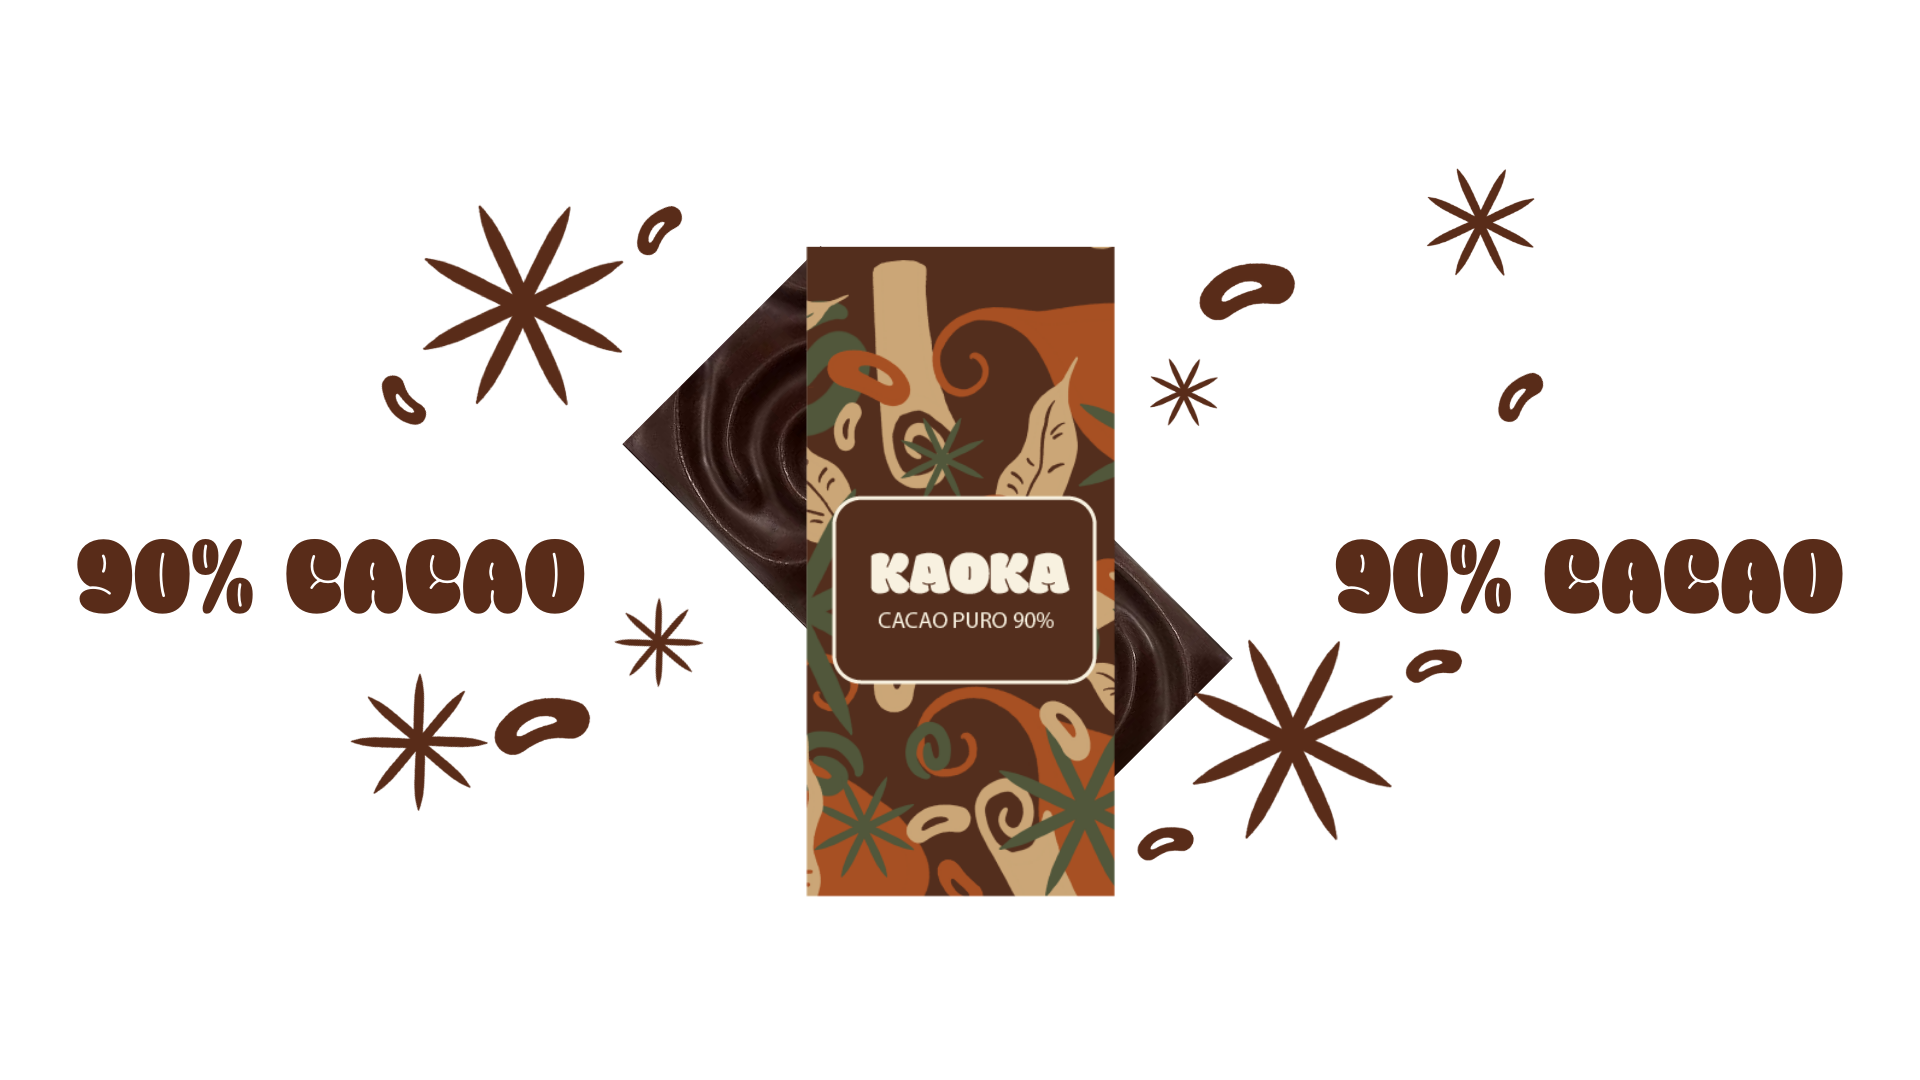
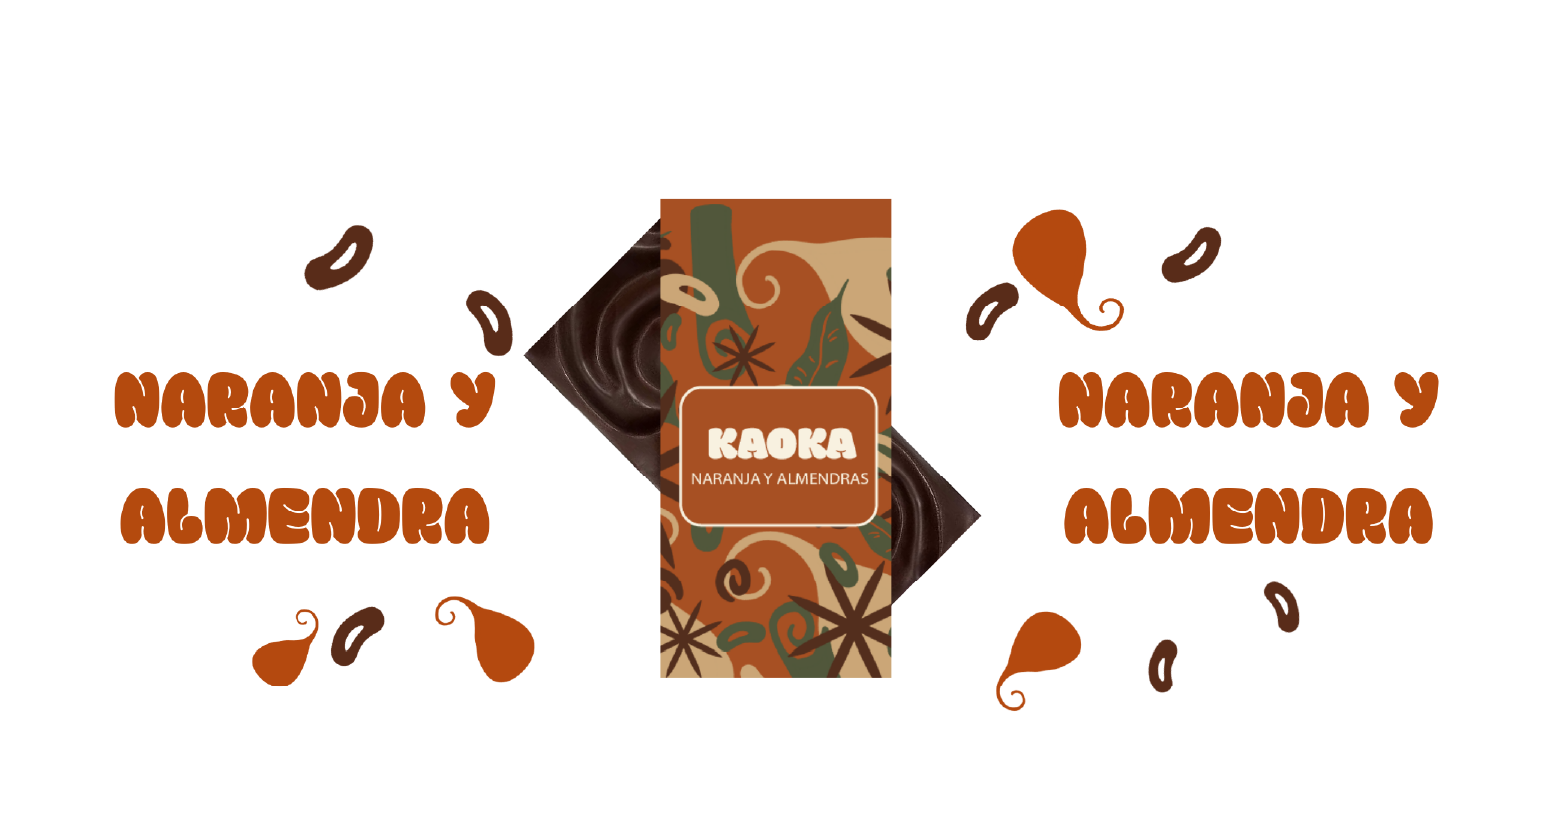
Cambio de imagenes

diff --git a/src/data/works.ts b/src/data/works.ts
@@ -11,7 +11,7 @@ export const works = [
       "/imagenes/trabajos/pagina2_alicia.png",
       "/imagenes/trabajos/pagina3_alicia.png",
       "/imagenes/trabajos/pagina4_alicia.png",
-    ], image: "/imagenes/trabajos/portada_alicia.png", description: "Desarrollar un conjunto de piezas para un libro ilustrado a partir de una obra literaria narrativa seleccionada, atendiendo al público lector y a las convenciones editoriales. La propuesta integrará una base pictórica manual (acrílico o gouache) y un acabado digital para maquetación y retoques." },
+    ], image: "/imagenes/trabajos/pagina1_alicia.png", description: "Desarrollar un conjunto de piezas para un libro ilustrado a partir de una obra literaria narrativa seleccionada, atendiendo al público lector y a las convenciones editoriales. La propuesta integrará una base pictórica manual (acrílico o gouache) y un acabado digital para maquetación y retoques." },
   
   { id: 2, section: "ilustracion", title: "36 Days of Type", images: [
       "/imagenes/trabajos/letras_1.png",
@@ -32,14 +32,6 @@ export const works = [
       "/imagenes/trabajos/kaoka_10.png",
       "/imagenes/trabajos/kaoka_11.png",
       "/imagenes/trabajos/kaoka_12.png",
-      "/imagenes/trabajos/kaoka_13.png",
-      "/imagenes/trabajos/kaoka_14.png",
-      "/imagenes/trabajos/kaoka_15.png",
-      "/imagenes/trabajos/kaoka_16.png",
-      "/imagenes/trabajos/kaoka_17.png",
-      "/imagenes/trabajos/kaoka_18.png",
-      "/imagenes/trabajos/kaoka_19.png",
-      "/imagenes/trabajos/kaoka_20.png",
     ], image: "/imagenes/trabajos/kaoka_1.png", description: "Kaoka es una amrca de chocolates familiar y accesible, que busca representar sus mezclas de sabores unicos y poder compartir su sabor con la gente." },
   { id: 4, section: "diseno", title: "Articulo Salud Mental",  images: [
       "/imagenes/trabajos/articulo_1.png",
@@ -49,25 +41,25 @@ export const works = [
     ], image: "/imagenes/trabajos/articulo_1.png", description: "Articulo sobre la salud mental de los diseñadores, maquetado en 2 pliegos a una tinta" },
   
      { id: 5, section: "ilustracion", title: "Aventureros",  images: [
-      "/imagenes/trabajos/ilustracion_1.jpg",
-      "/imagenes/trabajos/ilustracion_2.jpg",
-    ], image: "/imagenes/trabajos/ilustracion_1.jpg", description: "Ilustraciones destinadas a un cuento infantil sobre tres pequeños aventuros de fantasía por un bosque encantado. La pandilla compuesta por seres con formas amables y diseños marcados para ser facilmente reconocibles." },
+      "/imagenes/trabajos/ilustracion_1.png",
+      "/imagenes/trabajos/ilustracion_2.png",
+    ], image: "/imagenes/trabajos/ilustracion_1.png", description: "Ilustraciones destinadas a un cuento infantil sobre tres pequeños aventuros de fantasía por un bosque encantado. La pandilla compuesta por seres con formas amables y diseños marcados para ser facilmente reconocibles." },
   
 
     { id: 6, section: "diseno", title: "Mi juego vitamina",  images: [
-      "/imagenes/trabajos/transversal_1.jpg",
-      "/imagenes/trabajos/transversal_2.jpg",
-      "/imagenes/trabajos/transversal_3.jpg",
-      "/imagenes/trabajos/transversal_4.jpg",
-      "/imagenes/trabajos/transversal_5.jpg",
-      "/imagenes/trabajos/transversal_6.jpg",
-      "/imagenes/trabajos/transversal_7.jpg",
-      "/imagenes/trabajos/transversal_8.jpg",
-      "/imagenes/trabajos/transversal_9.jpg",
-      "/imagenes/trabajos/transversal_10.jpg",
-      "/imagenes/trabajos/transversal_11.jpg",
-      "/imagenes/trabajos/transversal_12.jpg",
-    ], image: "/imagenes/trabajos/transversal_8.jpg", description: "Mi juego vitamina tiene como objetivo ser un juego colaborativo para poder explorar nuevas formas de cuidar nuestra mente y como evitar conductas toxicas mediante un juego accesible para mayores de 12 años." },
+      "/imagenes/trabajos/transversal_1.png",
+      "/imagenes/trabajos/transversal_2.png",
+      "/imagenes/trabajos/transversal_3.png",
+      "/imagenes/trabajos/transversal_4.png",
+      "/imagenes/trabajos/transversal_5.png",
+      "/imagenes/trabajos/transversal_6.png",
+      "/imagenes/trabajos/transversal_7.png",
+      "/imagenes/trabajos/transversal_8.png",
+      "/imagenes/trabajos/transversal_9.png",
+      "/imagenes/trabajos/transversal_10.png",
+      "/imagenes/trabajos/transversal_11.png",
+      "/imagenes/trabajos/transversal_12.png",
+    ], image: "/imagenes/trabajos/transversal_1.png", description: "Mi juego vitamina tiene como objetivo ser un juego colaborativo para poder explorar nuevas formas de cuidar nuestra mente y como evitar conductas toxicas mediante un juego accesible para mayores de 12 años." },
   
    { id: 7, section: "ilustracion", title: "Origen",  images: [
       "/imagenes/trabajos/origen_1.png",
